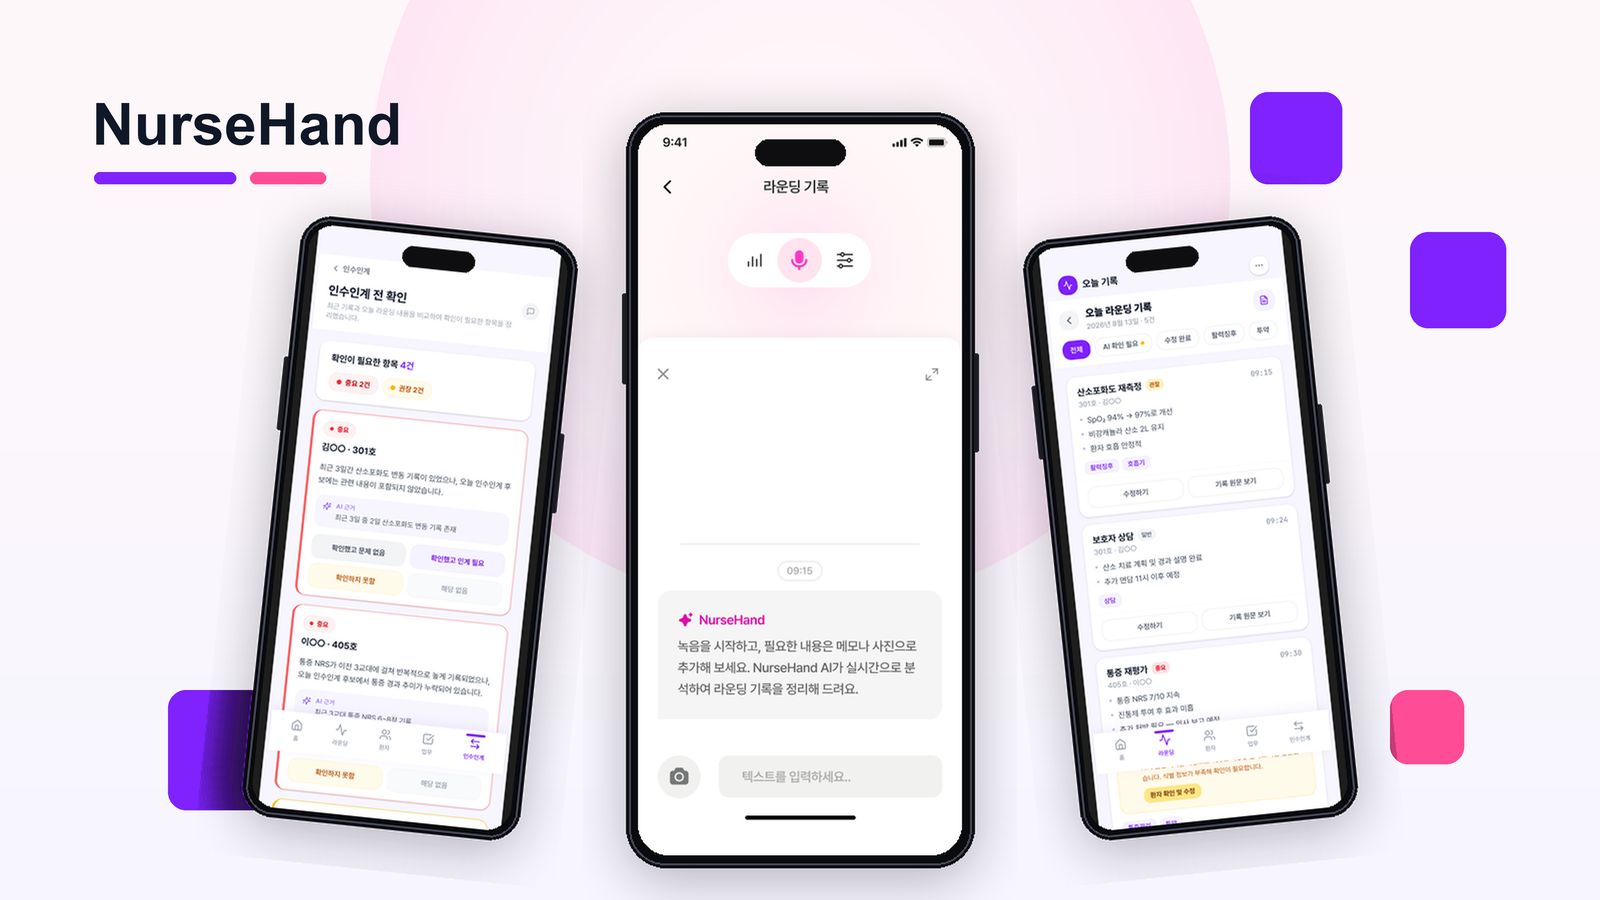
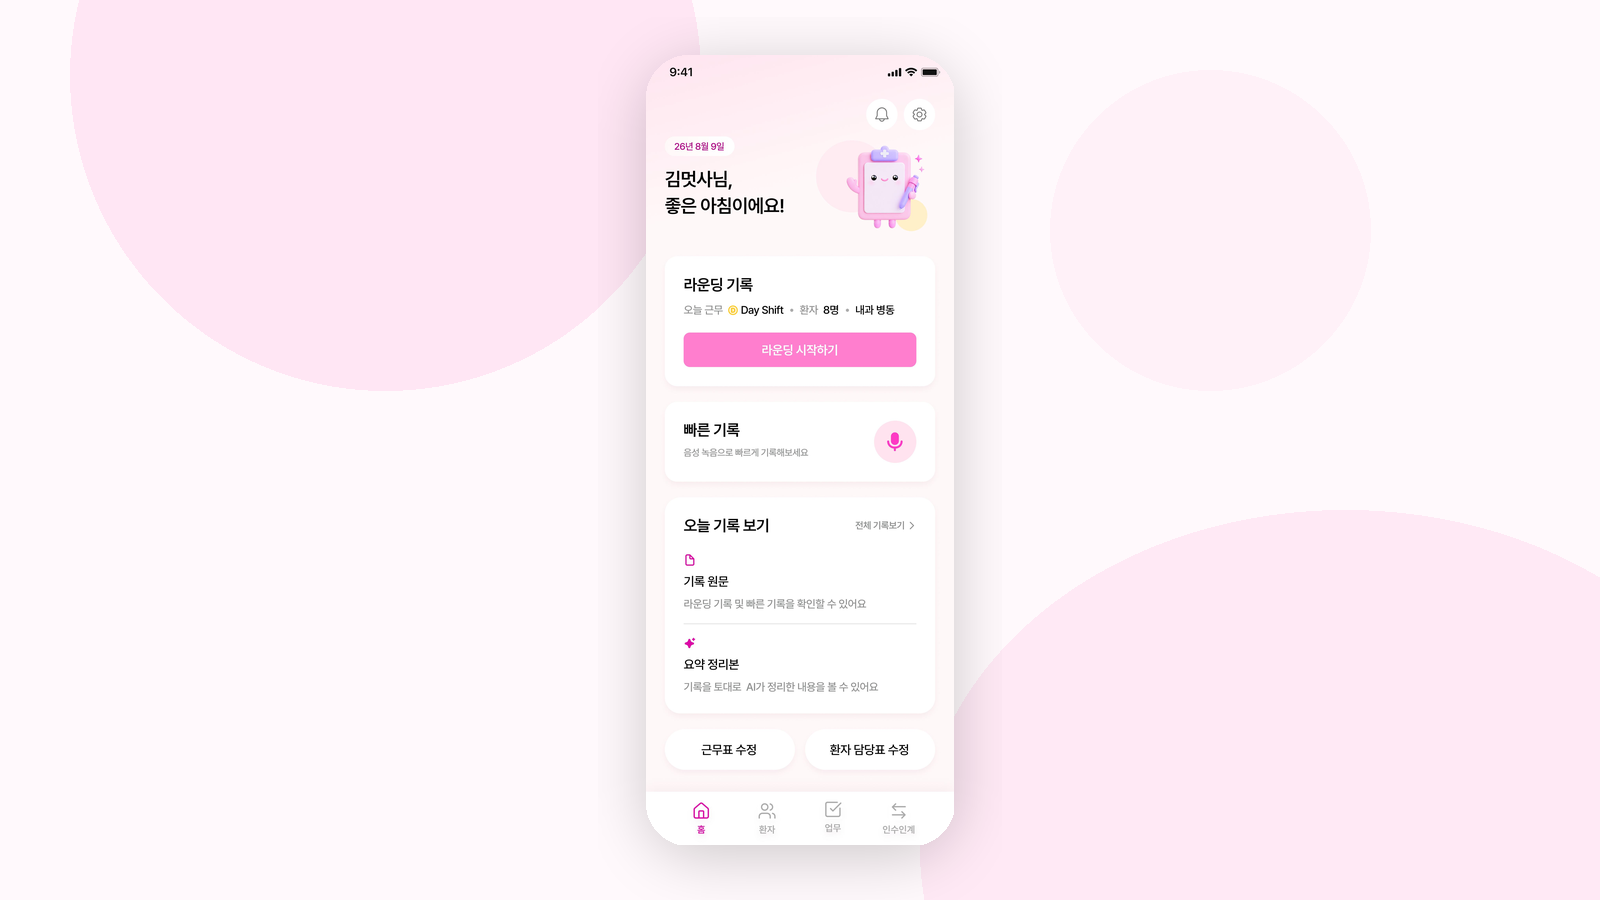
Update organization profile visuals

diff --git a/profile/README.md b/profile/README.md
@@ -1,5 +1,9 @@
 ![Nurse Hand app screens](./assets/nurse-hand-hero.png)
 
+<p align="center">
+  <img src="./assets/nurse-hand-demo.gif" alt="Nurse Hand demo video" width="280" />
+</p>
+
 <h1 align="center">Nurse Hand</h1>
 
 <p align="center">
